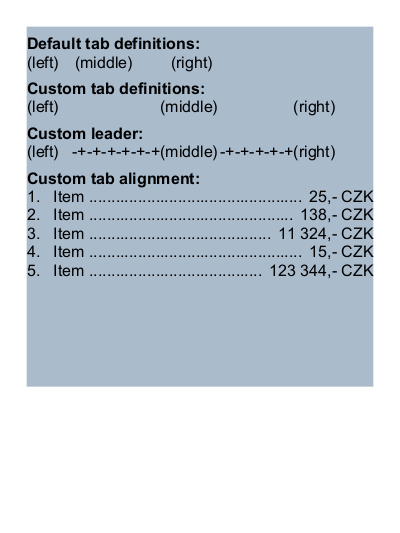
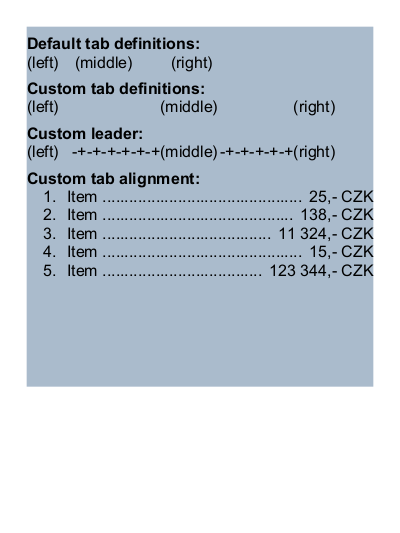
Update STL syntax documentation and numbering related examples

Changed region(s): [[0.06, 0.3602, 0.24, 0.5403]]

diff --git a/docplatform/distribution/py/pfdesigns/docbuilder/numbering/lists.css b/docplatform/distribution/py/pfdesigns/docbuilder/numbering/lists.css
@@ -1,13 +1,10 @@
+body {
+  counter-reset: counter-0;
+}
+
 ol {
-    counter-reset: counter-0;
-}
-
-ol ol {
-    counter-reset: none;
-}
-
-ol li {
-    list-style-type: none;
+  list-style-type: none;
+  padding-left: 1em;
 }
 
 ol .item {
@@ -39,4 +36,5 @@ ol ol ol .item::before {
     color: red;
     content: counter(counter-0, upper-roman) "." counter(counter-1) " " counter(counter-2, lower-alpha) ") ";
 }
+
 

diff --git a/docs/stl/syntax.md b/docs/stl/syntax.md
@@ -1084,6 +1084,11 @@ A relatively frequent use-case is to create a bulleted or numbered
 lists. *DocBuilder++ Engine* supports the `stl:list` element for that
 purpose.
 
+:exclamation: 
+Note taht Bullets & Numbering are a subject of significant change in STL syntax.
+While this section describes the current syntax, users can teke a look at 
+the future syntax in a separate [Numbering Documentation](numbering.html).
+
 The fact is that there is no *List* object implemented in *StoryTeller
 Document Model* (list definitions are internally represented as
 *ListStyleSpec* resources and referenced from individual paragraphs),
@@ -1214,9 +1219,12 @@ override the values for specific paragraph if necessary).
 
 This example demonstrates the usage of a *Span*:
 
--   [STL](https://github.com/opentext/storyteller/blob/master/docplatform/distribution/py/pfdesigns/docbuilder/list.xml)
--   [Resulting
-    Document](https://rawgit.com/opentext/storyteller/master/docplatform/distribution/py/regr_output/pfdesigns/docbuilder/list-xml_000-m.png)
+- Current syntax
+  -   [STL](https://github.com/opentext/storyteller/blob/master/docplatform/distribution/py/pfdesigns/docbuilder/list.xml)
+  -   [Resulting Document](https://rawgit.com/opentext/storyteller/master/docplatform/distribution/py/regr_output/pfdesigns/docbuilder/list-xml_000-m.png)
+- Future syntax
+  -   [STL](https://github.com/opentext/storyteller/blob/master/docplatform/distribution/py/pfdesigns/docbuilder/numbering/kitchen-sink.xml)
+  -   [Resulting Document](https://rawgit.com/opentext/storyteller/master/docplatform/distribution/py/regr_output/pfdesigns/docbuilder/numbering/kitchen-sink-xml_000-m.png)
 
 ![List example](https://rawgit.com/opentext/storyteller/master/docplatform/distribution/py/regr_output/pfdesigns/docbuilder/list-xml_000-m.png)
 
